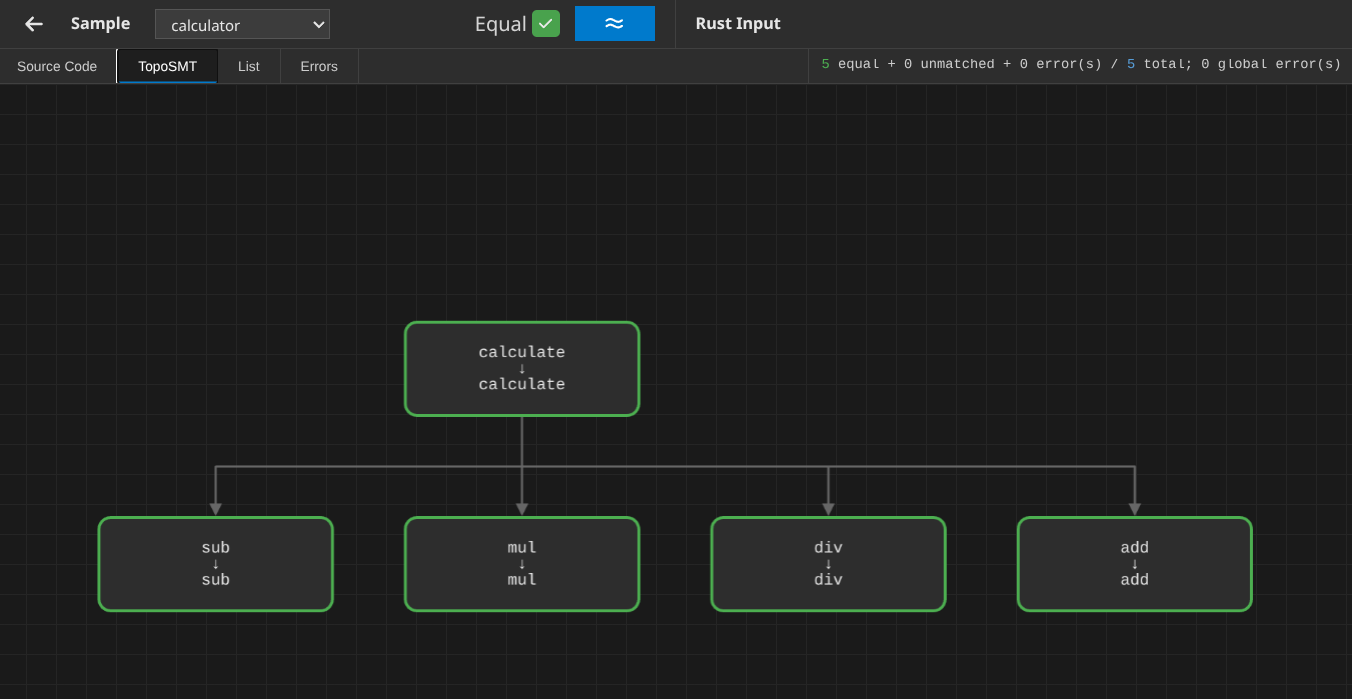
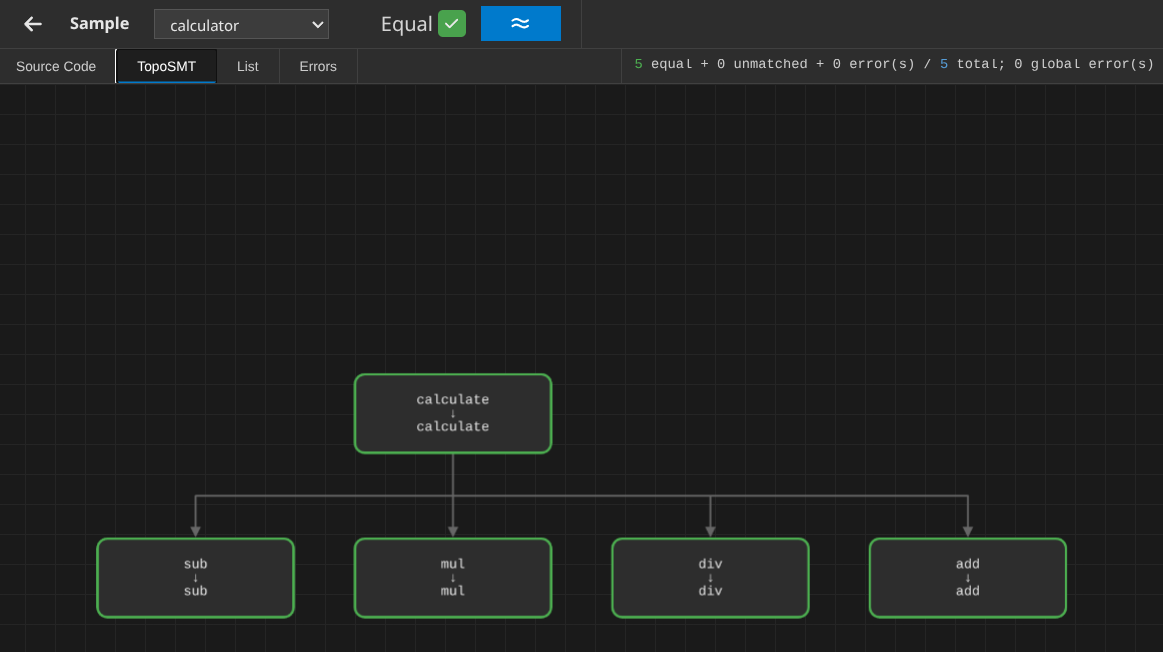
Demo layout fixes

diff --git a/app/src/components/editor/EditorPane.tsx b/app/src/components/editor/EditorPane.tsx
@@ -9,6 +9,7 @@ export type EditorPaneMode = 'editor' | 'errors'
 
 export interface EditorPaneProps {
   mode: EditorPaneMode
+  title?: string
   report?: RoseReport | null
   ansiConverter?: AnsiToHtml
   editorValue?: string
@@ -20,6 +21,7 @@ export interface EditorPaneProps {
 
 export const EditorPane: React.FC<EditorPaneProps> = ({
   mode,
+  title,
   report,
   editorValue = '',
   editorLanguage = 'json',
@@ -32,6 +34,7 @@ export const EditorPane: React.FC<EditorPaneProps> = ({
 
   return (
     <div className="editor-content">
+      {title ? <div className="editor-pane-heading">{title}</div> : null}
       {showErrors ? (
         <ReportErrorsView report={report} />
       ) : showEditor ? (

diff --git a/app/src/views/EquivalenceView.tsx b/app/src/views/EquivalenceView.tsx
@@ -177,6 +177,7 @@ export const EquivalenceView: React.FC<EquivalenceViewProps> = ({ headerLeading 
     leftPane = (
       <EditorPane
         mode="editor"
+        title="C"
         editorValue={cCode}
         editorLanguage={getLeftLanguage(resolverState)}
         editorReadOnly={false}
@@ -186,6 +187,7 @@ export const EquivalenceView: React.FC<EquivalenceViewProps> = ({ headerLeading 
     rightPane = (
       <EditorPane
         mode="editor"
+        title="Rust"
         editorValue={rCode}
         editorLanguage={getRightLanguage(resolverState)}
         editorReadOnly={false}

diff --git a/app/src/components/editor/EditorPane.css b/app/src/components/editor/EditorPane.css
@@ -7,3 +7,15 @@
   color: #888;
   font-size: 13px;
 }
+
+.editor-pane-heading {
+  flex: 0 0 auto;
+  padding: 6px 16px;
+  background: #2d2d2d;
+  border-bottom: 1px solid #404040;
+  color: #e6e6e6;
+  font-size: 13px;
+  font-weight: 600;
+  letter-spacing: normal;
+  line-height: 1.2;
+}

diff --git a/app/src/equivalence/EquivalenceHeader.tsx b/app/src/equivalence/EquivalenceHeader.tsx
@@ -51,8 +51,6 @@ export const EquivalenceHeader: React.FC<EquivalenceHeaderProps> = ({
         onRun={onRun}
       />
     </div>
-    <div className="editor-title-panel">
-      <h2>Rust Input</h2>
-    </div>
+    <div className="editor-title-panel" aria-hidden />
   </div>
 )

diff --git a/app/src/api/client.ts b/app/src/api/client.ts
@@ -1,6 +1,6 @@
 import type { DebugInfo } from '../types'
 
-const API_BASE = import.meta.env.VITE_API_URL ?? 'http://167.99.6.88:3000'
+const API_BASE = import.meta.env.VITE_API_URL ?? 'http://localhost:3000'
 
 export interface SampleData {
   c_code: string
